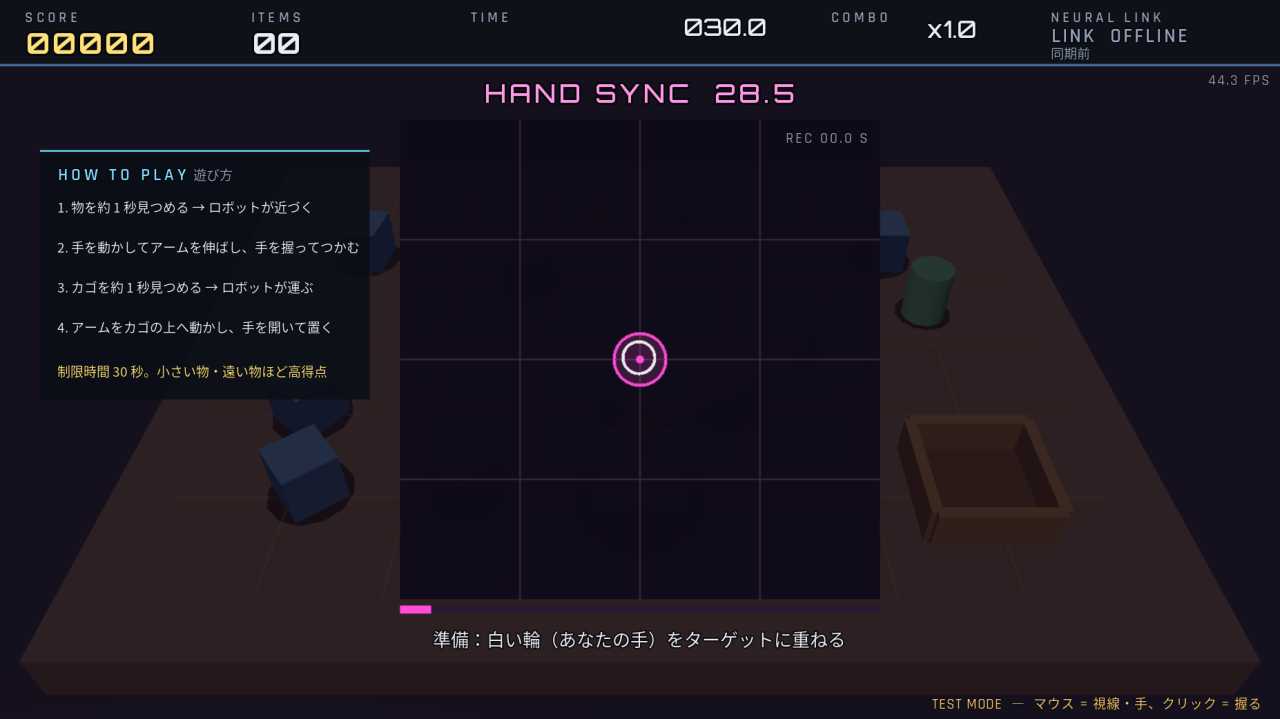
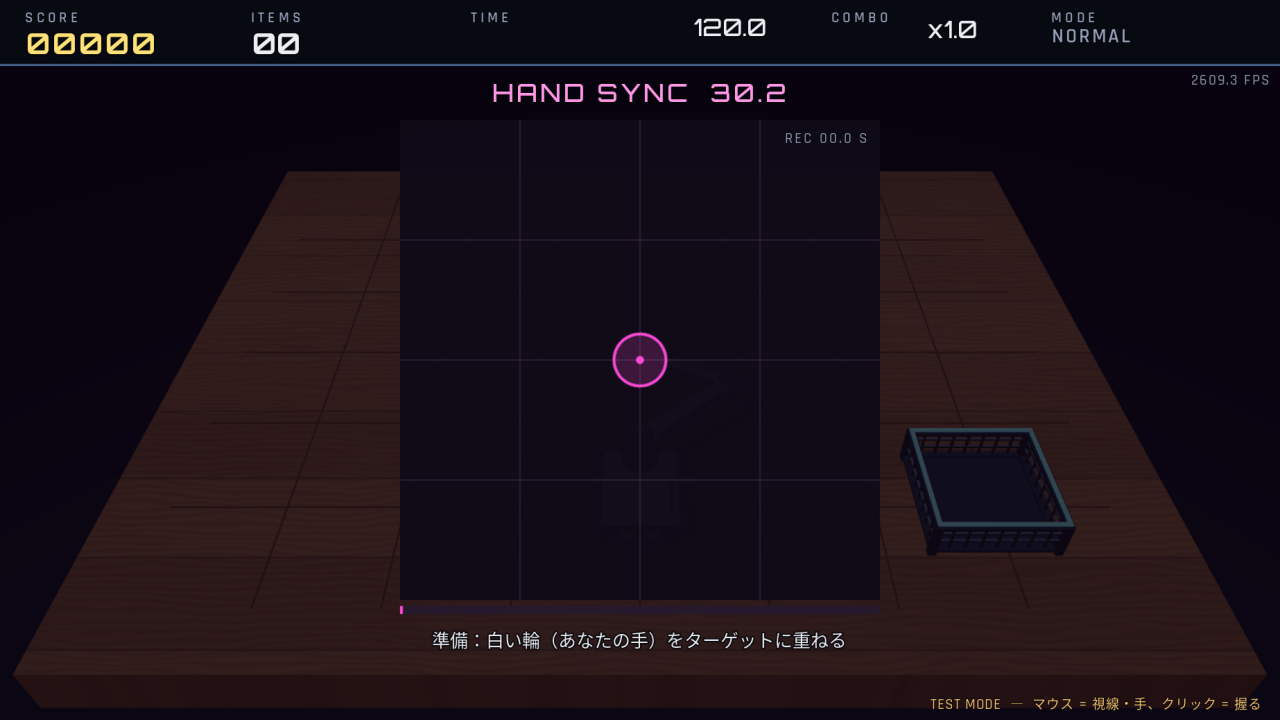
BCIオペレーター: 手の同期のあとに準備OKの画面(遊び方とルール)を出す。同期中の左の遊び方のカードはなくす

diff --git a/03_bci_game/game_view.py b/03_bci_game/game_view.py
@@ -54,6 +54,7 @@ MODE_TEXT = {"normal": ("NORMAL", "ノーマル　一人で集める"), "challen
 # タイトル画面の中央のルールの説明（脳の表示の代わり）。高さはモードで変わり、上下の真ん中にそろえる
 RULE_AREA = (106, 506)                     # カードを置く上下の範囲（題名の下 〜 カメラ / テストの表示の上）
 GAZE_INTRO_RECT = (240, 140, 800, 400)               # 視線同期の前の説明のカード（x, y, 幅, 高さ）
+READY_RECT = (100, 96, 1080, 400)                   # 手の同期のあとの「準備 OK」のカード（右下のカメラ映像と重ならない高さ）
 RULE_CARD_W = {"normal": 560, "challenge": 760}   # カードの横幅（チャレンジは強さのボタンを横に並べるので広く）
 RULE_LINE_H = 26                           # ルールの 1 行の高さ
 RULES = {
@@ -395,6 +396,11 @@ class GameView:
                 b.ring(*gaze, 11, 1.5, (1.0, 0.8, 0.3, 0.9), 20)
         if g.hand_calib.active:
             self._draw_hand_calib()
+        if g.state == "ready":
+            b.rect(0, HUD, W, H - HUD, (0.0, 0.01, 0.03, 0.6))
+            x, y, w, h = READY_RECT
+            self._card(READY_RECT, (0.4, 0.9, 1.0), 0.95)
+            b.rect(x + w / 2, y + 104, 1, h - 170, (0.25, 0.32, 0.45, 1))    # 遊び方とルールの間の線
         if g.state == "countdown":
             b.rect(0, 0, W, H, (0.0, 0.01, 0.03, 0.45))
 
@@ -509,8 +515,6 @@ class GameView:
             b.ring(*q, 16, 3, (1, 1, 1, 0.9), 28)
         b.rect(PX, PY + PH + 6, PW, 8, (0.15, 0.1, 0.18, 1.0))
         b.rect(PX, PY + PH + 6, PW * hc.progress, 8, (*mag, 1.0))
-        if not self.g.recalibrating:
-            self._card((40, 150, 330, 250), (0.4, 0.9, 1.0))       # 遊び方
 
     def _text_hud(self, img, g, m):
         """HUD の数字（スコア・ライバル / 集めた数・残り時間・コンボ・ライバル / 同期の状態）"""
@@ -714,6 +718,29 @@ class GameView:
             jx = x + w + 10 if anchor == "left" else x + 10
             self._jt(img, ja, "", jx, y + 1, max(13, size - 2), DIM)
 
+    def _text_ready(self, img, g):
+        """手の同期のあとの「準備 OK」の画面：左に遊び方、右にルール（モードごと）"""
+        x, y, w, h = READY_RECT
+        cx = x + w / 2
+        self._jt(img, "READY", "READY", cx, y + 16, 30, ACCENT, "center", font="display", bold=True, tracking=0.25)
+        self._jt(img, "準備 OK：同期が終わりました", "", cx, y + 56, 17, INK, "center", bold=True)
+        lx, rx, ty = x + 50, cx + 50, y + 112
+        self._label(img, "HOW TO PLAY", "遊び方", lx, ty)
+        for i, s in enumerate(STEPS):
+            self._jt(img, f"{i + 1}.  {s}", s, lx, ty + 38 + i * 32, 14, INK)
+        pts = "・".join(f"{'星' if k == 'bonus' else v['name']} {v['points']}" for k, v in config.ITEM_TYPES.items())
+        self._jt(img, f"得点：{pts}（× コンボ）", "", lx, ty + 38 + 4 * 32 + 8, 13, GOLD)
+        mode = g.mode
+        col = (255, 170, 140) if mode == "challenge" else GOOD
+        self._label(img, "RULES", "ルール", rx, ty, col)
+        if mode == "challenge":
+            en, ja = config.RIVAL_LEVEL_NAMES[g.rival_level]
+            self._jt(img, f"RIVAL {en}（{ja}）", en, x + w - 50, ty + 2, 13, RIVAL_RED, "right", font="tech", bold=True,
+                     tracking=0.15)
+        for i, s in enumerate(RULES[mode]):
+            self._jt(img, s, s, rx, ty + 38 + i * 30, 14, INK)
+        self._jt(img, "SPACE / ENTER / クリックでスタート", "SPACE / ENTER", cx, y + h - 46, 18, GOLD, "center", bold=True)
+
     def _text_gaze_intro(self, img, g):
         """視線同期の前の説明の画面（点はまだ出ていない）"""
         x, y, w, h = GAZE_INTRO_RECT
@@ -805,11 +832,9 @@ class GameView:
                 self._jt(img, PHASE_JA[hc.phase], hc.phase, cx, PY + PH + 24, 18, INK, "center")
             self._jt(img, f"REC {hc.valid_sec:04.1f} S", "rec", PX + PW - 10, PY + 8, 13, DIM, "right", font="tech",
                      tracking=0.15)
-            if not g.recalibrating:
-                self._label(img, "HOW TO PLAY", "遊び方", 56, 162)
-                for i, s in enumerate(STEPS):
-                    self._jt(img, f"{i + 1}. {s}", s, 56, 196 + i * 40, 13, INK)
-                self._jt(img, f"制限時間 {config.GAME_TIME:.0f} 秒。小さい物ほど高得点（箱 100・缶 150・玉 250・星 500）", "", 56, 360, 12, GOLD)
+            # 遊び方・ルールは、同期が終わったあとの「準備 OK」の画面で見せる（同期中はターゲットを追うので読めない）
+        if g.state == "ready":
+            self._text_ready(img, g)
         if g.state == "countdown":
             n = int(math.ceil(config.COUNTDOWN_SEC - g.state_t))
             self._jt(img, str(n) if n > 0 else "GO", "GO", cx, H / 2 - 74, 110, (255, 255, 255), "center",

diff --git a/03_bci_game/README.md b/03_bci_game/README.md
@@ -70,7 +70,7 @@ cd 03_bci_game
 
 ![タイトル](docs/title.png)
 
-画面の流れ：タイトル（モード選択）→ カメラ調整 → 脳と接続中 → 視線同期 → 同期フェーズ → プレイ → 結果 → タイトル
+画面の流れ：タイトル（モード選択）→ カメラ調整 → 脳と接続中 → 視線同期 → 同期フェーズ → 準備 OK → プレイ → 結果 → タイトル
 
 1. **タイトル**：モード（ノーマル = 一人で集める / チャレンジ = ライバルと対戦）を選び、SPACE（またはスタートボタンをクリック）
    - モードは M・← →キー、またはボタンのクリックで切りかえる。選んでいる方が明るく「▶」つきで表示される
@@ -79,9 +79,13 @@ cd 03_bci_game
    - 次に、本物の脳が「接続中」で pial → inflated へふくらむ
 2. **視線同期**：まず説明の画面（やり方の説明、SPACE / ENTER / クリックで始める。点を見ている間は説明を読めないので、点を出す前に見せる）。始めると「視線を合わせます」— 光る点（3×3 の 9 点）を、ゲーム中と同じように自然に見る（顔が少し動いてもよい。プレイ中の見方と同じ見方で学習するため）。あなたの目の動きと画面の位置を対応づける。続けて「ずれを確認します」— 金色の確認の 3 点を見つめ（このときだけ注視点が出るので、どこに視線が当たっているか確かめられる）、ずれが 170 画素以下なら合格。超えたら自動でやり直す（2 回失敗したあとは ENTER で、それまでで一番よかった結果で進める）。1 回 約 19 秒。点が出ている間、画面の上の帯には「視線を合わせます　何点目 / 9」と、顔が見つからないときの警告だけを出す（C キーでのやり直しでは説明の画面は出さず、すぐ点が出る）。テストモードでは省略
 3. **同期フェーズ**（約 30 秒）：画面中央の同期パッドで、マゼンタのターゲットを右手でゆっくり追いかけ（白い輪 = 自分の手）、
-   最後は「握る！」「開く！」の合図で手を握る・開く。ここで速度と把持のデコーダを学習する（左に遊び方が出る）
+   最後は「握る！」「開く！」の合図で手を握る・開く。ここで速度と把持のデコーダを学習する（ターゲットを追うので、遊び方・ルールはこの画面には出さず、次の「準備 OK」の画面で見せる）
 
    ![同期フェーズ](docs/hand_sync.png)
+
+   - **準備 OK**：同期が終わると「READY　準備 OK：同期が終わりました」のカードが出る。左に遊び方（4 つの手順と、物の種類ごとの得点）、右に選んだモードのルール（タイトルのカードと同じ文。チャレンジならライバルの強さも）。SPACE / ENTER / クリックでカウントダウンへ。プレイ中の再同期（L キー）のあとは出ない
+
+   ![準備 OK](docs/ready.png)
 
 4. **カウントダウン → プレイ（120 秒）**
    1. 物を約 1 秒見つめる → リングがたまってロックオン → ロボットが近づく
